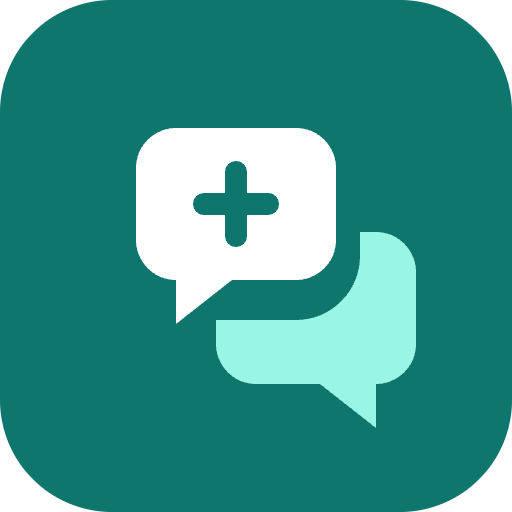
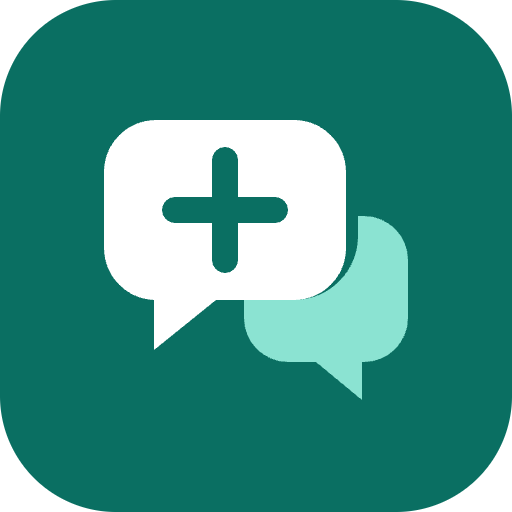
feat: MediBridge 한 화면 기본 + 제품 디자인 개편 + 카톡 공유 카드·파비콘
- 처음 여는 기기는 한 화면 모드로 바로 시작, 화면 모드 선택은 메뉴로
- 시작 화면·모드 선택·통역 화면 디자인 정리 (브랜드 청록+흑백+손님 남색, 선 아이콘)
- Open Graph 공유 카드(1200x630), 새 브랜드 마크·favicon.ico·홈 화면 아이콘

diff --git a/projects/med-interpreter/components/Interpreter.tsx b/projects/med-interpreter/components/Interpreter.tsx
@@ -63,7 +63,7 @@ export default function Interpreter() {
     const m = store.get("mb.mode") as Mode | null;
     let r = store.get("mb.room");
     if (r && !normalizeRoom(r)) { r = deskRoom(1); store.set("mb.room", r); } // 예전 8자리 코드 → 데스크 1
-    if (m === "solo") setMode("solo");
+    if (m === "solo" || !m) setMode("solo"); // 처음 여는 기기는 한 화면 모드로 바로 시작
     else if ((m === "desk" || m === "guest") && r) { setMode(m); setRoom(r); }
     setReady(true);
     fetch("/api/bootstrap", { cache: "no-store" }).then(async (res) => {
@@ -85,42 +85,40 @@ export default function Interpreter() {
 // ================================================================
 function ModePicker({ hospital, onPick }: { hospital: string; onPick: (m: Mode, room: string | null) => void }) {
   const [desk, setDesk] = useState(() => deskNumber(store.get("mb.room")));
-  const DeskSelect = () => (
-    <div className="desk-pick" onClick={(e) => e.stopPropagation()}>
-      <span>데스크</span>
-      {[1, 2, 3, 4, 5].map((n) => <button key={n} className={`desk-n ${n === desk ? "sel" : ""}`} onClick={() => setDesk(n)}>{n}</button>)}
-    </div>
-  );
   return (
     <main className="picker">
-      <div className="picker-head">
-        <img src="/brand.svg" alt="" width={56} height={56} />
-        <h1>{hospital} 통역</h1>
-        <p className="muted">이 기기를 어떤 화면으로 쓸지 고르세요. 한 번 고르면 다음부터 바로 열립니다.</p>
+      <header className="launch-top"><Brand /><span className="launch-hosp">{hospital}</span></header>
+      <div className="picker-body">
+        <div className="picker-head">
+          <h1>이 기기를 어떻게 쓸까요?</h1>
+          <p>한 번 고르면 다음부터 바로 열립니다. 언제든 메뉴에서 바꿀 수 있어요.</p>
+        </div>
+        <div className="picker-grid">
+          <button className="pick-card primary" onClick={() => onPick("solo", null)}>
+            <span className="pick-top"><span className="pick-ico"><Icon n="screen" size={26} /></span><span className="pick-badge">기본</span></span>
+            <b>한 화면으로 같이 보기</b>
+            <span>기기 하나를 직원과 손님이 함께 봅니다. 모니터를 복제해 두 화면에 띄워도 됩니다. 한국어·외국어를 모두 알아듣고 두 줄로 크게 보여줍니다.</span>
+            <span className="pick-go">시작하기 <Icon n="arrow" size={16} /></span>
+          </button>
+          <button className="pick-card" onClick={() => onPick("desk", deskRoom(desk))}>
+            <span className="pick-top"><span className="pick-ico"><Icon n="desk" size={26} /></span></span>
+            <b>데스크 화면 <small>직원용</small></b>
+            <span>손님 화면과 따로 쓰는 직원 쪽 기기. 같은 데스크 번호의 손님 화면과 자동으로 연결됩니다.</span>
+            <span className="pick-go">데스크 {desk} 로 시작 <Icon n="arrow" size={16} /></span>
+          </button>
+          <button className="pick-card" onClick={() => onPick("guest", deskRoom(desk))}>
+            <span className="pick-top"><span className="pick-ico"><Icon n="tablet" size={26} /></span></span>
+            <b>손님 화면 <small>손님용</small></b>
+            <span>손님 앞에 두는 두 번째 기기. 코드 입력 없이 같은 번호의 데스크 화면과 연결됩니다.</span>
+            <span className="pick-go">데스크 {desk} 에 연결 <Icon n="arrow" size={16} /></span>
+          </button>
+        </div>
+        <div className="desk-pick">
+          <span>데스크 번호 (두 기기로 쓸 때)</span>
+          {[1, 2, 3, 4, 5].map((n) => <button key={n} className={`desk-n ${n === desk ? "sel" : ""}`} onClick={() => setDesk(n)}>{n}</button>)}
+        </div>
       </div>
-      <DeskSelect />
-      <div className="picker-grid">
-        <button className="pick-card" onClick={() => onPick("desk", deskRoom(desk))}>
-          <span className="pick-icon">🧑⚕</span>
-          <b>데스크 화면</b>
-          <span>직원 앞에 두는 화면. 직원 말은 손님 언어로, 손님 말은 한국어로 보이고 들립니다.</span>
-          <span className="pick-go">데스크 {desk} 로 시작 →</span>
-        </button>
-        <button className="pick-card" onClick={() => onPick("guest", deskRoom(desk))}>
-          <span className="pick-icon">🙋</span>
-          <b>손님 화면</b>
-          <span>손님 앞에 두는 두 번째 기기. 같은 번호의 데스크 화면과 자동으로 연결됩니다. 코드 입력은 필요 없습니다.</span>
-          <span className="pick-go">데스크 {desk} 에 연결 →</span>
-        </button>
-        <button className="pick-card" onClick={() => onPick("solo", null)}>
-          <span className="pick-icon">🖥</span>
-          <b>한 화면으로 같이 보기</b>
-          <span>기기 하나(모니터 복제 포함)를 함께 볼 때. 한국어와 손님 언어를 모두 알아듣고 양쪽 글자를 같이 보여줍니다.</span>
-          <span className="pick-go">시작 →</span>
-        </button>
-      </div>
-      <p className="muted small">데스크가 여러 곳이면 위에서 번호를 고르세요. 데스크 화면과 손님 화면은 같은 번호끼리 연결됩니다.</p>
-      <a className="link" href="/admin">⚙ 관리자</a>
+      <footer className="launch-foot"><a href="/admin"><Icon n="gear" size={16} /> 관리자</a></footer>
     </main>
   );
 }
@@ -552,21 +550,29 @@ function Conversation({ mode, room: roomCode, boot, onExit }: { mode: Mode; room
 
   if (!started) {
     return (
-      <div className={`startup ${mode}`}>
+      <div className={`launch ${mode}`}>
+        <header className="launch-top">
+          <Brand />
+          {!guestView && <span className="launch-hosp">{settings.hospital_name}</span>}
+        </header>
         {guestView ? (
-          <button className="start-card" onClick={start}>
-            <div className="welcome-multi">{GUEST_LANGS.map((l) => <span key={l} lang={LANG_META[l].html}>{GUEST_UI[l].welcome}</span>)}</div>
-            <span className="start-btn">▶ {GUEST_LANGS.map((l) => GUEST_UI[l].tapToStart).slice(0, 3).join(" · ")}</span>
+          <button className="launch-main as-btn" onClick={start}>
+            <GuestWelcome level={0} />
+            <span className="launch-cta"><Icon n="play" size={20} /> {GUEST_LANGS.map((l) => GUEST_UI[l].tapToStart).slice(0, 2).join(" · ")}</span>
           </button>
         ) : (
-          <button className="start-card" onClick={start}>
-            <p className="eyebrow">{settings.hospital_name} · {mode === "desk" ? "데스크 화면" : "한 화면 모드"}</p>
-            <h1>통역 시작</h1>
-            <p className="lead">누르면 마이크가 켜지고 계속 듣습니다. 버튼 없이 말하면 바로 통역됩니다.</p>
-            <span className="start-btn">▶ 시작하기</span>
-          </button>
+          <main className="launch-main">
+            <p className="launch-eyebrow">{mode === "solo" ? "한 화면 통역" : `데스크 ${deskNumber(roomCode)} · 직원 화면`}</p>
+            <h1>말하면,<br /><em>바로 통역</em>됩니다</h1>
+            <p className="launch-sub">한국어 ↔ 10개 언어 · 손님 언어 자동 인식 · 버튼 없이 계속 듣습니다</p>
+            <button className="launch-cta" onClick={start}><Icon n="mic" size={22} /> 통역 시작</button>
+            <div className="launch-langs">{GUEST_LANGS.map((l) => <span key={l} lang={LANG_META[l].html}>{LANG_META[l].flag} {LANG_META[l].native}</span>)}</div>
+          </main>
         )}
-        <button className="link corner" onClick={onExit}>화면 모드 바꾸기</button>
+        <footer className="launch-foot">
+          <button onClick={onExit}><Icon n="screen" size={16} /> 화면 모드 바꾸기</button>
+          {!guestView && <a href="/admin"><Icon n="gear" size={16} /> 관리자</a>}
+        </footer>
       </div>
     );
   }
@@ -586,7 +592,8 @@ function Conversation({ mode, room: roomCode, boot, onExit }: { mode: Mode; room
             <button className="lang-chip" onClick={() => setSheet("lang")}><span className="flag">{LANG_META[guestLang].flag}</span>{LANG_META[guestLang].native}<Icon n="chev" /></button>
           ) : (
             <>
-              <span className="brand-dot" aria-hidden><img src="/brand.svg" alt="" width={30} height={30} /></span>
+              <Brand compact />
+              <span className="bar-div" />
               <b className="bar-title">{settings.hospital_name}</b>
               <button className="lang-chip" onClick={() => setSheet("lang")} title="손님 언어 (말하면 자동으로 바뀜)"><span className="muted-sm">손님</span><span className="flag">{LANG_META[guestLang].flag}</span>{LANG_META[guestLang].korean}<Icon n="chev" /></button>
             </>
@@ -636,7 +643,7 @@ function Conversation({ mode, room: roomCode, boot, onExit }: { mode: Mode; room
         <div className="alert-bar"><Icon n="alert" /><span>진료·약·검사 같은 <b>의료 내용</b>이 나왔어요. 정확한 설명이 필요하면 사람 통역을 연결하세요.</span><button className="btn primary sm" onClick={() => setSheet("human")}>사람 통역</button><button className="btn ghost sm" onClick={() => setRiskDismissed(riskyMsg!.id)}>괜찮아요</button></div>
       )}
       {!guestView && suggest && (
-        <div className="alert-bar soft"><Icon n="image" /><span>안내 자료 <b>‘{suggest.title}’</b>를 손님 화면에 띄울까요?</span><button className="btn primary sm" onClick={() => void show({ type: "card", id: suggest.id, title: suggest.title })}>띄우기</button><button className="btn ghost sm" onClick={() => setSuggest(null)}>아니요</button></div>
+        <div className="alert-bar soft"><Icon n="image" /><span>안내 자료 <b>‘{suggest.title}’</b>를 {mode === "solo" ? "화면에" : "손님 화면에"} 띄울까요?</span><button className="btn primary sm" onClick={() => void show({ type: "card", id: suggest.id, title: suggest.title })}>띄우기</button><button className="btn ghost sm" onClick={() => setSuggest(null)}>아니요</button></div>
       )}
       {showConsent && (
         <div className="consent-bar" lang={LANG_META[guestLang].html} dir={LANG_META[guestLang].rtl ? "rtl" : undefined}>
@@ -754,7 +761,21 @@ const ICONS: Record<string, string> = {
   alert: "M12 3l10 18H2zM12 10v5M12 18h.01",
   lock: "M6 11h12v10H6zM8.5 11V7.5a3.5 3.5 0 0 1 7 0V11",
   qr: "M4 4h6v6H4zM14 4h6v6h-6zM4 14h6v6H4zM14 14h2v2h-2zM18 18h2v2h-2zM14 18h2M18 14h2",
+  desk: "M3 17h18M5 17V7h14v10M8 21h8M12 17v4",
+  tablet: "M7 3h10v18H7zM11 18h2",
+  screen: "M3 4h18v12H3zM8 20h8M12 16v4",
+  gear: "M12 15a3 3 0 1 0 0-6 3 3 0 0 0 0 6zM19.4 15a1.7 1.7 0 0 0 .3 1.8l.1.1a2 2 0 1 1-2.8 2.8l-.1-.1a1.7 1.7 0 0 0-1.8-.3 1.7 1.7 0 0 0-1 1.5V21a2 2 0 1 1-4 0v-.1a1.7 1.7 0 0 0-1.1-1.5 1.7 1.7 0 0 0-1.8.3l-.1.1a2 2 0 1 1-2.8-2.8l.1-.1a1.7 1.7 0 0 0 .3-1.8 1.7 1.7 0 0 0-1.5-1H3a2 2 0 1 1 0-4h.1a1.7 1.7 0 0 0 1.5-1.1 1.7 1.7 0 0 0-.3-1.8l-.1-.1a2 2 0 1 1 2.8-2.8l.1.1a1.7 1.7 0 0 0 1.8.3H9a1.7 1.7 0 0 0 1-1.5V3a2 2 0 1 1 4 0v.1a1.7 1.7 0 0 0 1 1.5 1.7 1.7 0 0 0 1.8-.3l.1-.1a2 2 0 1 1 2.8 2.8l-.1.1a1.7 1.7 0 0 0-.3 1.8V9a1.7 1.7 0 0 0 1.5 1H21a2 2 0 1 1 0 4h-.1a1.7 1.7 0 0 0-1.5 1z",
+  arrow: "M5 12h14M13 6l6 6-6 6",
 };
+
+function Brand({ compact }: { compact?: boolean }) {
+  return (
+    <span className={`brand ${compact ? "compact" : ""}`}>
+      <img src="/brand.svg" alt="" width={compact ? 28 : 34} height={compact ? 28 : 34} />
+      <b>MediBridge</b>
+    </span>
+  );
+}
 function Icon({ n, size = 20 }: { n: string; size?: number }) {
   return (
     <svg viewBox="0 0 24 24" width={size} height={size} fill={n === "play" ? "currentColor" : "none"} stroke="currentColor" strokeWidth={n === "menu" ? 3.2 : 1.9} strokeLinecap="round" strokeLinejoin="round" aria-hidden>

diff --git a/projects/med-interpreter/app/globals.css b/projects/med-interpreter/app/globals.css
@@ -423,3 +423,100 @@ p { margin: 0; }
 .desk-n { width: 40px; height: 40px; border-radius: 50%; font-weight: 800; font-size: 16px; background: var(--surface-2); color: var(--ink-2); }
 .desk-n.sel { background: var(--staff); color: #fff; }
 .pick-go { margin-top: auto; padding-top: 8px; font-weight: 750; color: var(--staff); }
+
+/* ================= v4 제품 디자인: 브랜드 청록 + 흑백 + 손님 남색 ================= */
+:root {
+  --brand: #0A6F62; --brand-ink: #075247; --brand-soft: #E7F4F1;
+  --staff: #0A6F62; --staff-soft: #E7F4F1; --staff-ink: #075247;
+  --guest: #3446A8; --guest-soft: #EEF0FB; --guest-ink: #2A3A8F;
+  --ink: #0B1A1E; --ink-2: #4E5E63; --ink-3: #8A989C; --line: #E4EAEA; --surface-2: #F1F4F4; --bg: #F6F8F8;
+}
+body { background: var(--bg); letter-spacing: -0.005em; }
+.brand { display: inline-flex; align-items: center; gap: 10px; font-size: 19px; font-weight: 800; letter-spacing: -0.025em; color: var(--ink); }
+.brand img { border-radius: 9px; }
+.brand.compact { gap: 8px; font-size: 16px; }
+
+/* 시작 화면 */
+.launch { min-height: 100dvh; display: flex; flex-direction: column; background: #fff; --accent: var(--brand); }
+.launch.guest { --accent: var(--guest); }
+.launch-top { display: flex; align-items: center; justify-content: space-between; gap: 12px; padding: max(20px, env(safe-area-inset-top)) 28px 12px; }
+.launch-hosp { font-size: 14px; font-weight: 650; color: var(--ink-2); padding: 7px 14px; border: 1px solid var(--line); border-radius: 999px; }
+.launch-main { flex: 1; display: flex; flex-direction: column; align-items: center; justify-content: center; text-align: center; padding: 24px; width: 100%; }
+.launch-main.as-btn { gap: 28px; cursor: pointer; }
+.launch-eyebrow { font-size: 15px; font-weight: 750; color: var(--brand); letter-spacing: .02em; margin-bottom: 20px; }
+.launch-main h1 { font-size: clamp(46px, 7.4vw, 88px); line-height: 1.06; font-weight: 850; letter-spacing: -0.045em; color: var(--ink); }
+.launch-main h1 em { font-style: normal; color: var(--brand); }
+.launch-sub { margin-top: 24px; font-size: clamp(16px, 2vw, 20px); color: var(--ink-2); line-height: 1.5; }
+.launch-cta { margin-top: 44px; height: 68px; padding: 0 42px; border-radius: 999px; background: var(--accent); color: #fff; font-size: 20px; font-weight: 750; display: inline-flex; align-items: center; gap: 10px; box-shadow: 0 14px 32px color-mix(in srgb, var(--accent) 30%, transparent); transition: transform .12s, box-shadow .12s; }
+.launch-cta:hover { transform: translateY(-1px); box-shadow: 0 18px 38px color-mix(in srgb, var(--accent) 36%, transparent); }
+.launch-cta:active { transform: scale(.98); }
+.launch-main.as-btn .launch-cta { margin-top: 8px; }
+.launch-langs { margin-top: 48px; display: flex; flex-wrap: wrap; justify-content: center; gap: 8px; max-width: 780px; }
+.launch-langs span { font-size: 14px; font-weight: 600; color: var(--ink-2); padding: 7px 13px; border: 1px solid var(--line); border-radius: 999px; background: #fff; }
+.launch-foot { display: flex; justify-content: center; gap: 22px; padding: 18px 16px max(22px, env(safe-area-inset-bottom)); }
+.launch-foot button, .launch-foot a { display: inline-flex; align-items: center; gap: 6px; font-size: 14px; font-weight: 600; color: var(--ink-3); text-decoration: none; }
+.launch-foot button:hover, .launch-foot a:hover { color: var(--ink); }
+
+/* 화면 모드 고르기 */
+.picker { display: flex; flex-direction: column; align-items: stretch; justify-content: flex-start; gap: 0; padding: 0; background: var(--bg); }
+.picker .launch-top { background: transparent; }
+.picker-body { flex: 1; display: flex; flex-direction: column; align-items: center; justify-content: center; gap: 30px; padding: 12px 24px 24px; }
+.picker-head { text-align: center; gap: 10px; }
+.picker-head h1 { font-size: clamp(28px, 4vw, 42px); font-weight: 850; letter-spacing: -0.035em; }
+.picker-head p { font-size: 17px; color: var(--ink-2); }
+.picker-grid { width: min(1080px, 100%); grid-template-columns: repeat(auto-fit, minmax(270px, 1fr)); gap: 16px; }
+.pick-card { gap: 12px; padding: 26px; border-radius: 24px; border: 1px solid var(--line); background: #fff; box-shadow: 0 1px 2px rgba(11,26,30,.04); color: var(--ink-2); font-size: 15px; line-height: 1.55; transition: border-color .15s, box-shadow .15s, transform .15s; }
+.pick-card:hover { border-color: color-mix(in srgb, var(--brand) 45%, var(--line)); box-shadow: 0 18px 40px rgba(11,26,30,.08); transform: translateY(-2px); }
+.pick-card.primary { border: 2px solid var(--brand); }
+.pick-top { display: flex; align-items: center; justify-content: space-between; }
+.pick-ico { width: 54px; height: 54px; border-radius: 16px; display: grid; place-items: center; background: var(--brand-soft); color: var(--brand); }
+.pick-badge { font-size: 12px; font-weight: 800; color: #fff; background: var(--brand); padding: 5px 11px; border-radius: 999px; }
+.pick-card b { font-size: 21px; letter-spacing: -0.025em; color: var(--ink); }
+.pick-card b small { font-size: 13px; font-weight: 650; color: var(--ink-3); margin-left: 6px; letter-spacing: 0; }
+.pick-go { display: inline-flex; align-items: center; gap: 6px; color: var(--brand); font-weight: 750; }
+.desk-pick { font-size: 14px; }
+
+/* 통역 화면 */
+.conv { background: var(--bg); }
+.conv.guest { background: #F6F7FB; }
+.topbar { min-height: 66px; padding-left: 20px; padding-right: 16px; }
+.bar-div { width: 1px; height: 20px; background: var(--line); }
+.bar-title { font-size: 15px; font-weight: 650; color: var(--ink-2); }
+.lang-chip { height: 40px; font-size: 15px; }
+.listen-pill { height: 40px; font-size: 15px; font-weight: 700; box-shadow: none; border: 1px solid color-mix(in srgb, var(--accent) 22%, transparent); }
+.listen-pill.speech { border-color: #ffc9c9; }
+.round-btn { width: 42px; height: 42px; background: #fff; border: 1px solid var(--line); }
+.round-btn.off { border-color: #ffc9c9; }
+
+.history { padding: 18px 20px; gap: 10px; }
+.hrow { border-radius: 18px; padding: 12px 14px; box-shadow: none; }
+.hrow.guest { background: #fff; border-color: var(--line); }
+.hrow .h-ava { background: var(--brand); }
+.hrow.guest .h-ava { background: var(--guest-soft); }
+.h-main { font-size: 16.5px; }
+
+.now { background: transparent; border-top-color: var(--line); padding: 16px 20px 18px; }
+.caption { border: 1px solid var(--line); border-top: 4px solid var(--brand); border-radius: 28px; padding: 24px 30px 26px; padding-right: 84px; box-shadow: 0 1px 2px rgba(11,26,30,.04), 0 24px 48px rgba(11,26,30,.07); }
+.caption.guest { border-top-color: var(--guest); border-left-color: var(--line); }
+.caption.live, .caption.live.guest { border: 1px solid var(--line); border-top: 4px solid var(--rec); border-left-width: 1px; border-style: solid; box-shadow: 0 1px 2px rgba(11,26,30,.04); }
+.caption.live .cap-main { color: var(--ink-2); }
+.cap-who { height: 30px; padding: 0 12px; border-radius: 999px; background: var(--brand-soft); color: var(--brand-ink); font-size: 13px; letter-spacing: .01em; margin-bottom: 14px; }
+.caption.guest .cap-who { background: var(--guest-soft); color: var(--guest-ink); }
+.caption.live .cap-who { background: #fff0f0; color: var(--rec); }
+.cap-main { font-weight: 800; letter-spacing: -0.025em; }
+.cap-sub { color: var(--ink-3); }
+.cap-sub.solo { border-top: 1px solid var(--line); color: var(--guest); }
+.caption.guest .cap-sub.solo { color: var(--brand); }
+.cap-replay { background: var(--surface-2); color: var(--ink); width: 52px; height: 52px; }
+.orb-core { box-shadow: 0 12px 28px color-mix(in srgb, var(--accent) 32%, transparent); }
+
+.dock { padding: 8px 14px max(10px, env(safe-area-inset-bottom)); }
+.dock-btn { color: var(--ink-2); }
+.dock-btn:hover:not(:disabled) { background: var(--surface-2); }
+.dock-btn.rose { color: #B02A5B; }
+.dock-btn.rose .dock-ico { background: #FFF0F5; }
+.alert-bar { border-radius: 16px; font-size: 15px; }
+.alert-bar.soft { background: var(--brand-soft); color: var(--brand-ink); }
+.consent-bar { border-width: 1px; box-shadow: 0 12px 30px rgba(11,26,30,.08); }
+.sheet { border-radius: 26px 26px 0 0; }
+.btn.primary { background: var(--accent, var(--brand)); }

diff --git a/projects/med-interpreter/app/layout.tsx b/projects/med-interpreter/app/layout.tsx
@@ -1,16 +1,25 @@
 import type { Metadata, Viewport } from "next";
 import "./globals.css";
 
+const SITE = process.env.NEXT_PUBLIC_SITE_URL || "https://medibridge-desk.vercel.app";
+const TITLE = "MediBridge — 병원 안내데스크 실시간 통역";
+const DESC = "말하면 바로 통역됩니다. 한국어 ↔ 영어·중국어·일본어 등 10개 언어, 버튼 없이 자동으로 양방향 통역.";
+
+// 카카오톡·문자·슬랙에 링크를 붙이면 opengraph-image.png 가 카드로 뜬다.
 export const metadata: Metadata = {
-  title: "MediBridge 안내데스크 통역",
-  description: "병원 안내데스크용 양방향 실시간 통역",
+  metadataBase: new URL(SITE),
+  title: TITLE,
+  description: DESC,
+  applicationName: "MediBridge",
   appleWebApp: { capable: true, title: "MediBridge", statusBarStyle: "default" },
+  openGraph: { type: "website", siteName: "MediBridge", title: TITLE, description: DESC, url: SITE, locale: "ko_KR" },
+  twitter: { card: "summary_large_image", title: TITLE, description: DESC },
   robots: { index: false, follow: false },
 };
 
 export const viewport: Viewport = {
   width: "device-width", initialScale: 1, maximumScale: 1, userScalable: false,
-  themeColor: "#f4f7f8", viewportFit: "cover",
+  themeColor: "#ffffff", viewportFit: "cover",
 };
 
 export default function RootLayout({ children }: { children: React.ReactNode }) {

diff --git a/projects/med-interpreter/app/manifest.ts b/projects/med-interpreter/app/manifest.ts
@@ -7,13 +7,13 @@ export default function manifest(): MetadataRoute.Manifest {
     description: "병원 안내데스크용 양방향 실시간 통역",
     start_url: "/",
     display: "fullscreen",
-    orientation: "portrait",
-    background_color: "#f4f7f8",
-    theme_color: "#f4f7f8",
+    background_color: "#ffffff",
+    theme_color: "#0A6F62",
     icons: [
       { src: "/brand.svg", sizes: "any", type: "image/svg+xml" },
       { src: "/icon-192.png", sizes: "192x192", type: "image/png" },
       { src: "/icon-512.png", sizes: "512x512", type: "image/png", purpose: "any" },
+      { src: "/icon-maskable-512.png", sizes: "512x512", type: "image/png", purpose: "maskable" },
     ],
   };
 }

diff --git a/projects/med-interpreter/README.md b/projects/med-interpreter/README.md
@@ -6,7 +6,7 @@
 ## 쓰는 법
 **버튼 없이 말하면 바로 통역**된다. 마이크가 계속 듣다가 말이 시작되면 실시간 자막을 띄우고, 0.7초 조용하면 그 문장을 통역해 상대 화면에 글자로 보여 주고 상대 쪽 스피커로 읽어 준다. 손님 언어는 말을 들으면 자동으로 알아낸다.
 
-기기마다 처음에 화면 모드를 하나 고른다(다음부터 자동):
+처음 여는 기기는 **한 화면 모드로 바로 시작**한다. 두 기기로 나눠 쓰려면 메뉴 → 화면 모드 바꾸기:
 | 모드 | 언제 | 동작 |
 |---|---|---|
 | 데스크 화면 | 직원 앞 기기 | 직원 말(한국어)만 맡아 통역. 손님 말은 한국어 글자 + 한국어 음성 |
@@ -66,3 +66,7 @@ DB 스키마는 Supabase 마이그레이션 `medi_interpreter_init`, `medi_setti
 ## 배포
 운영 주소: https://medibridge-desk.vercel.app (Vercel 프로젝트 `medibridge-desk`, 서울 리전)
 다시 배포: `npx vercel login` 후 `./deploy.sh`
+
+## 공유 카드·아이콘
+- 카톡·문자에 주소를 보내면 `app/opengraph-image.png`(1200×630) 카드가 뜬다. 카톡은 미리보기를 캐시하므로 바꾼 뒤 바로 안 바뀌면 카카오 디벨로퍼스 "공유 디버거"에서 캐시를 지운다.
+- 파비콘 `app/favicon.ico`(16/32/48) · `app/icon.svg` · 홈 화면 아이콘 `app/apple-icon.png`, `public/icon-*.png`
